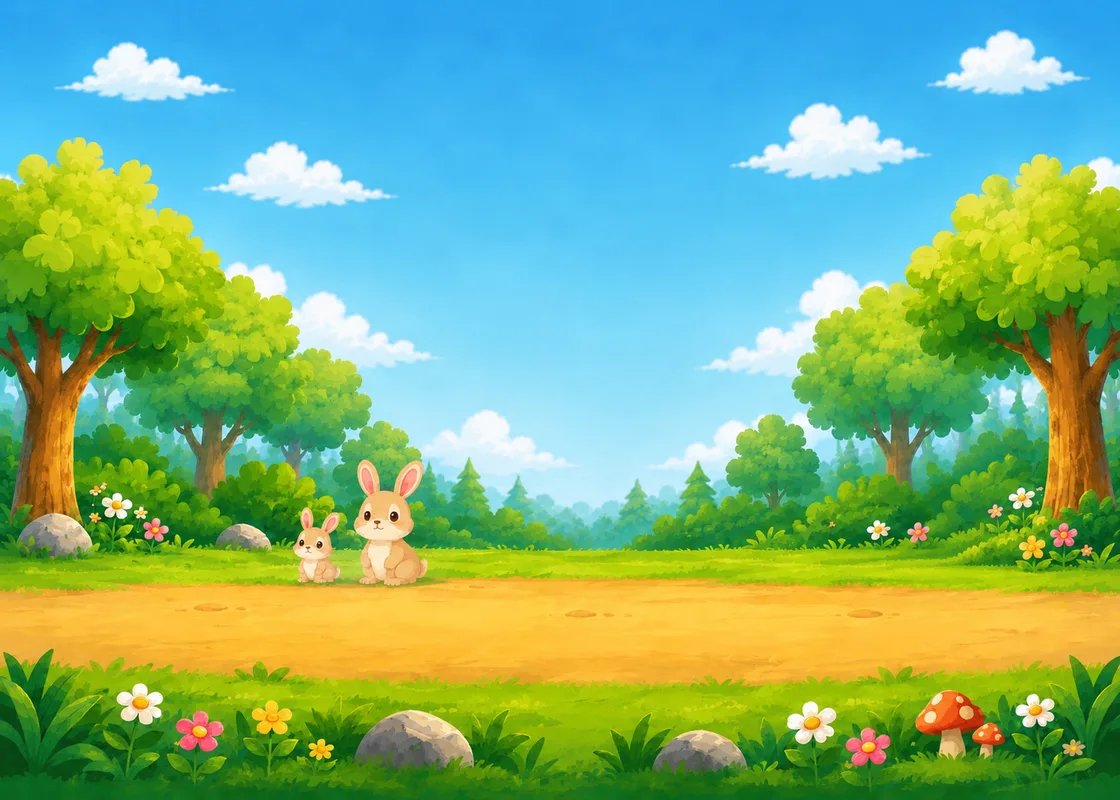
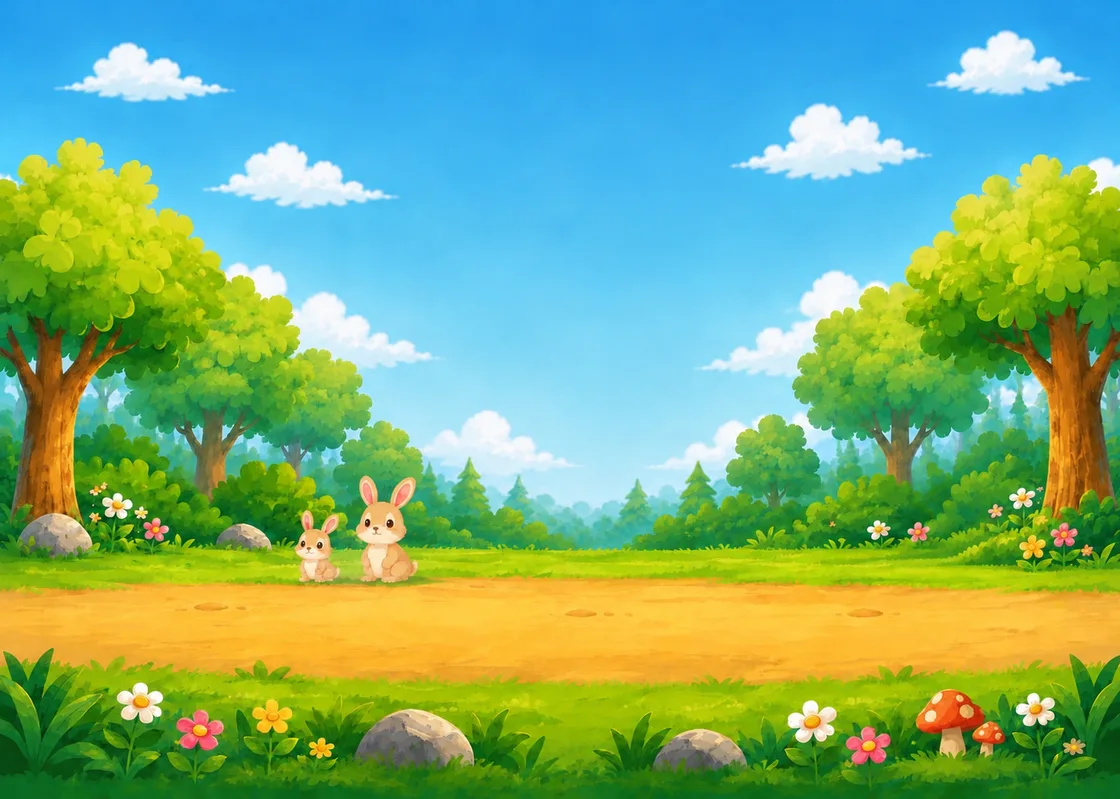
feat(expedition): 숲길 배경 v4 (토끼 크기 축소)
- public/assets/expedition/bg-wood.webp 교체 (1120x799, 88KB)
- art-src/expedition/bg/bg-wood-v4-src.webp 보관, 구버전 v3 원본 삭제 (규칙 6)
- art-src README 행 갱신

Claude-Session: https://claude.ai/code/session_018maNuYqDfFyRSe9uKpZhPR

diff --git a/src/data/expeditions.js b/src/data/expeditions.js
@@ -246,7 +246,7 @@ export const EXPEDITIONS = {
     /* Ch1 숲 — 숲길을 산책한다 */
     mounts:["deer","horse","donkey","unicorn","dragon"],
     pose:"walk", item:"lunchbox", goal:"🏡", goalImg:"assets/expedition/flag/green.webp",   // 숲 = 나뭇잎 깃발
-    bgImg:"assets/expedition/bg-wood.webp",   // 사용자 배경 원화 v3 (1.4:1 — 큰 카드용, 원본 art-src)
+    bgImg:"assets/expedition/bg-wood.webp",   // 사용자 배경 원화 v4 (1.4:1 — 토끼 축소, 원본 art-src)
     scene:{ sky:["#CBE8F5","#EAF6E9"], ground:["#A9CF7F","#8AB763"], groundH:36,
       bgAR:1.4,
       /* [사용자 확정 2026-08-01] 바닥길 — 넓은 흙길을 따라 거의 평지로 가로지른다 */

diff --git a/art-src/README.md b/art-src/README.md
@@ -162,7 +162,7 @@ halo가 외곽선을 흐려서 생긴 착시였다.
 | expedition/flag/{red,blue,green,yellow}-src.webp | 도착 깃발 4색 (빨강 잎가지·파랑 물방울·초록 잎·노랑 별 — halo 보정 후 탑재) | expedition/flag/*.webp |
 | expedition/bg/bg-mountain-v2-src.webp | 바위산 배경 v2 (1484×1060 = 1.4:1 — 큰 카드용 재제작, 돌계단 대각선 등반, 현행) | expedition/bg-mountain.webp |
 | expedition/bg/bg-forest-v3-src.webp | 깊은 숲 배경 v3 (1484×1060 = 1.4:1 — 큰 카드용 재제작, 여우·부엉이·개울, 현행) | expedition/bg-forest.webp |
-| expedition/bg/bg-wood-v3-src.webp | 숲길 산책 배경 v3 (1484×1060 = 1.4:1 — 큰 카드용 재제작, 현행) | expedition/bg-wood.webp |
+| expedition/bg/bg-wood-v4-src.webp | 숲길 산책 배경 v4 (1485×1059 = 1.4:1 — 토끼 크기 축소, 현행) | expedition/bg-wood.webp |
 | expedition/bg/bg-cave-v3-src.webp | 동굴 배경 v3 (1483×1061 = 1.4:1 — 큰 카드용 재제작, 현행) | expedition/bg-cave.webp |
 | expedition/bg/bg-meadow-v2-src.webp | 초원 배경 v2 (1484×1060 = 1.4:1 — 큰 카드용 재제작, 언덕·들꽃, 현행) | expedition/bg-meadow.webp |
 | expedition/bg/bg-skyisle-v3-src.webp | 하늘섬 배경 v3 (1484×1060 = 1.4:1 — 큰 카드용 재제작, 현행) | expedition/bg-skyisle.webp |
